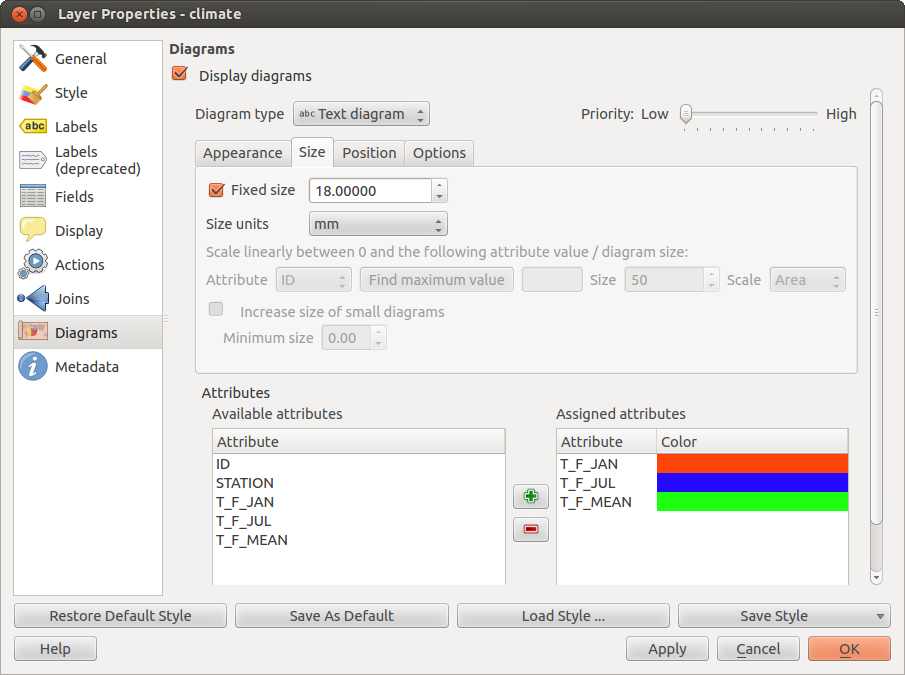
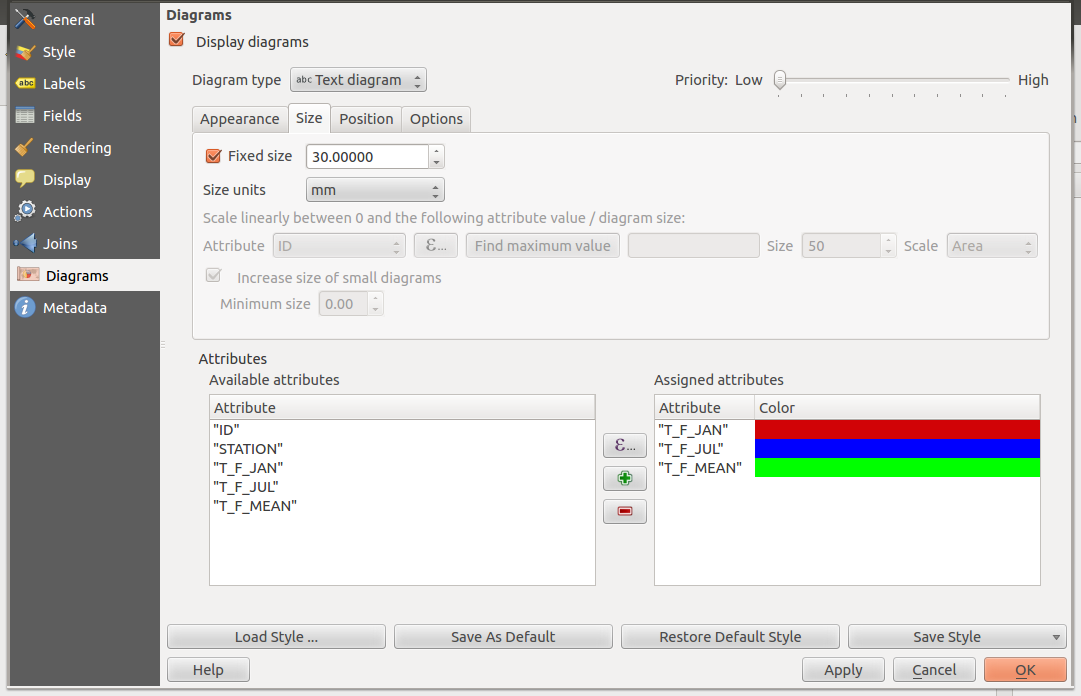
Add diagram with expression documentation

diff --git a/source/docs/user_manual/working_with_vector/vector_properties.rst b/source/docs/user_manual/working_with_vector/vector_properties.rst
@@ -1183,6 +1183,9 @@ Remember that in the :guilabel:`Position` tab a |checkbox| :guilabel:`Data defin
 of the diagrams is possible. Here you can use attributes to define the position of the diagram.
 Also, a scale dependent visibility that you can find in the :guilabel:`Appearance` tab is possible.
 
+The size and the attributes can also be an expression use the |mActionmIconExpressionEditorOpen| Button
+To add use an expression.
+
 .. _vectormetadatamenu:
 
 Metadata Menu
